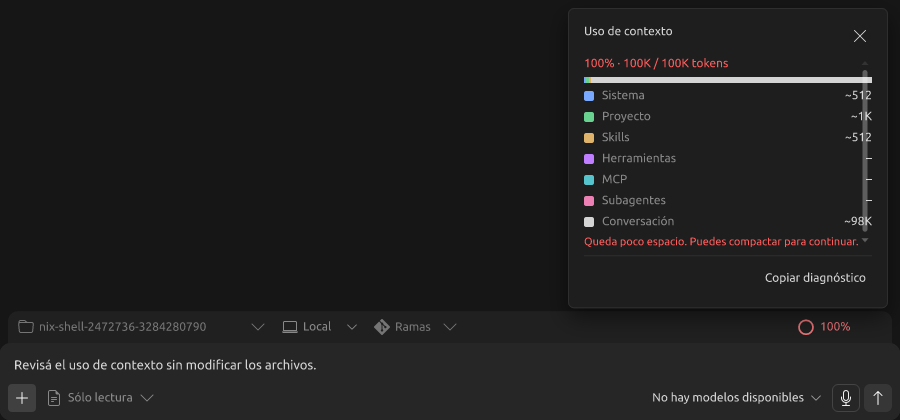
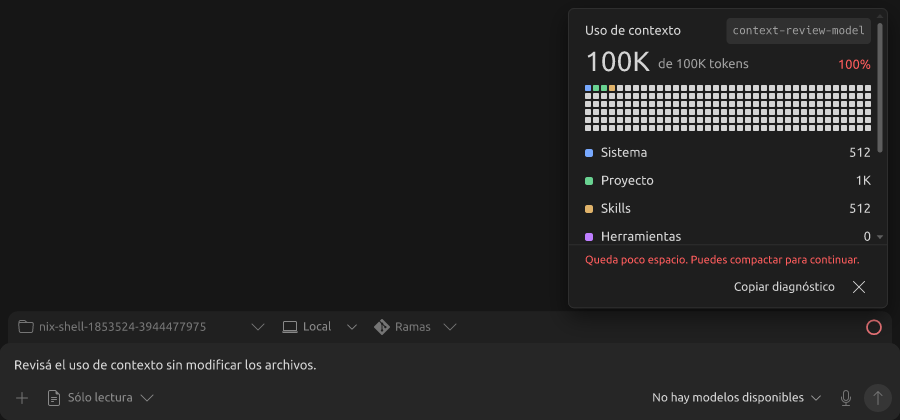
The ring's review export checks the card that now fills the popover
Its captures are re-exported with the context window card.

diff --git a/apps/agents-window/src/context_visual_tests.rs b/apps/agents-window/src/context_visual_tests.rs
@@ -877,10 +877,10 @@ fn export_context_ring_states_visual_review() {
                 DrawCommand::ProgressRing { fraction, .. }
                     if *fraction == occupancy.map(|occupancy| occupancy.fraction()))));
             let text = visible_text(&frame, size);
-            // The header says what the ring says; the label has room from 490 px.
-            if let Some(label) = label {
-                assert!(text.iter().any(|text| text.starts_with(&format!("{label} · "))), "{text:?}");
-                assert_eq!(text.iter().any(|text| text == label), width >= 490.0, "{name}: {text:?}");
+            // With a ring that has a figure the card states a percentage too;
+            // it rounds, so under 1% it reads "0%" where the ring says "<1%".
+            if label.is_some() {
+                assert!(text.iter().any(|text| text.ends_with('%')), "{name}: {text:?}");
             } else {
                 assert!(text.iter().all(|text| !text.contains('%')), "{text:?}");
             }
